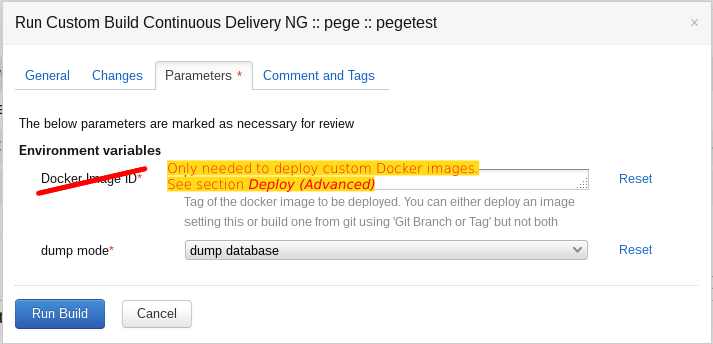
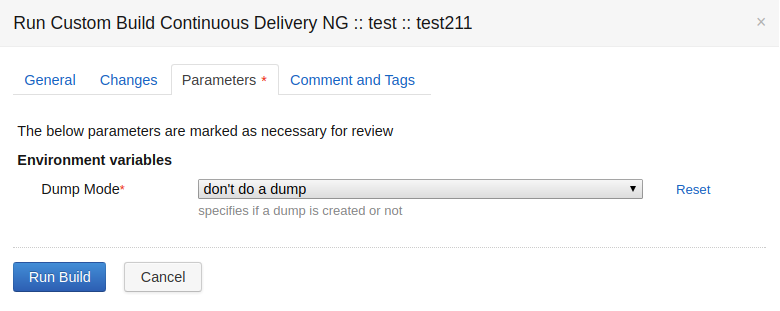
adjust the setion contionous_delivery
add new parameters to the continous delivery configuration

diff --git a/continuous_delivery/deploy_and_basics.rst b/continuous_delivery/deploy_and_basics.rst
@@ -23,17 +23,14 @@ Deliver (Simple)
       #. … a test system with a custom Git branch or tag
       #. … a production system with a Docker image previously installed on the test system
 
-   .. todo:: link "Docker image" to high level overview
-
-.. figure:: deploy_and_basics_static/tc_run_menu.png
+.. figure:: deploy_and_basics_static/tc_run_menu.png		
    :name: run menu
 
    *Run* menu
 
-#. Click on **Run** in the `main page`_
-#. (optional) adjust the `dump mode`_ in the `run menu <#run-menu>`__
+#. Click on **Run** in the `main page`_		
+#. (optional) adjust the `dump mode`_ in the `run menu <#run-menu>`__		
 #. Click **Run Build** in the `run menu <#run-menu>`__
-
 
 Deliver (Advanced)
 ------------------
@@ -50,14 +47,14 @@ Deliver (Advanced)
 #. Click on **Run** in the `main page`_.
 #. (optional) Adjust the `dump mode`_ in the `run menu <#run-menu>`__.
 #. (optional) Select a particular `Git tag or branch <#deploy-a-specific-git-tag>`_ or deploy a particular `Docker image
-   tag <deploy-a-specific-docker-image-tag>`_ [#f1]_.
+   <#deploy-a-specific-docker-image>`_.
 #. Click **Run Build** in the `run menu <#run-menu>`__.
 
-.. todo:: write and link guide for deploying specific Docker images
 
-
-Dump Mode
+Dump Mode 
 ---------
+
+.. note:: dump mode is currently not available 
 
 .. figure:: deploy_and_basics_static/tc_dump_modes_dropdown.png
 
@@ -80,26 +77,30 @@ Deploy a Specific Git Tag
 
 **Build branch** allows you to specify to deploy an arbitrary Git branch or tag.
 
-.. important::
-   #. This should only be used with test systems [#f1]_.
-   #. The value of **Build branch** is ignored if `Docker Image ID <#run-menu-advanced>`__ is set.
+.. note:: There might be a situation where you want to deploy a tag directly on production. 
+          In that case remove the CD parameter "DOCKER_PULL_URL". `Deploy s Specific Docker Image <#deploy-a-specific-docker-image>`_.
 
 
-Deploy a Specific Docker Image Tag
-----------------------------------
+Deploy a Specific Docker Image
+------------------------------
 
-This is only used for production systems, it allows you to deploy a docker image that was once installed on the test
-system. By default the ``test`` tag is deployed which installs the very same image the test system is using. You can
-however also install an older image formerly installed on the test system.
+This is used for production systems, it allows you to deploy a docker image that was once installed on the test
+system. The image is determined by the DOCKER_PULL_URL parameter. It allows you to pick a image from a project an deploy it on your target project.
+For this you can fill the parameter with the following: 
 
-#. Find the tag name for the version you want to have installed. It looks like this ``ecap-2017-05-09T12_54_27``.
-   **ecap** is the customer name.
-#. Enter the tag in the **Docker Image ID** field in the `run menu <#run-menu-advanced>`__.
+**registry.appuio.ch/toco-nice-%env.INSTALLATION%test/%env.DOCKER_IMAGE%.**
 
-.. todo:: describe where the tag names can be found
+After the evaluation of the CD parameters it will appear as an URL like this: 
+         
+``registry.appuio.ch/tocco-nice-tocco/nice:latest`` [#f1]_
 
 
 .. rubric:: Footnotes
 
-.. [#f1] In general, test systems are deployed from git and production systems reuse the Docker Images from
-         the test systems.
+.. [#f1] It is also possible to deploy an image from any other system on your target system.
+         E.g. test213 -> test214
+         After that, test214 will have the state of test213 which obvosuly makes no sense at all.
+
+         So be aware of that, and only use it to deploy a test image on a production system.
+
+

diff --git a/continuous_delivery/add_customer_or_installation.rst b/continuous_delivery/add_customer_or_installation.rst
@@ -42,27 +42,16 @@ Create a new Installation
 4. Fill in parameters as shown above
 5. Fill in these additional template parameters:
 
-   ============================  ======================================================================================
+   ============================  ============================================================================================
    CUSTOMER                      Customer name (e.g. agogis or smc but never :strike:`agogistest` or :strike:`smctest`)
-   DOCKER_IMAGE_PULL_TAG [#f1]_  ``test`` for **production** systems and empty for test systems
-   DOCKER_IMAGE_PUSH_TAG         ``test`` for test systems and ``production`` for production systems
+   DOCKER_PULL_URL               Only needed for production systems. Leave it empty for test system, so a new image is built.
    DUMP_MODE                     ``dump`` for production systems and ``no_dump`` for test systems
-   GIT_TREEISH [#f1]_            Git branch for test systems (e.g. ``releases/2.13``) and empty for production
+   GIT_TREEISH                   Git branch for test systems (e.g. ``releases/2.13``) and empty for production
    INSTALLATION                  Installation name (e.g. smc or smctest)
-   ============================  ======================================================================================
+   ============================  ============================================================================================
 
    It shouldn't be necessary to touch any of the other parameters.
 
 .. important::
 
     The installation needs also to be :doc:`created in OpenShift <../openshift/create_nice_installation>`.
-
-.. rubric:: Footnotes
-
-.. [#f1] Only one of DOCKER_IMAGE_PULL_TAG and GIT_TREEISH can be used at the same time.
-
-         Generally:
-
-         * GIT_TREEISH is used for test systems, it instructs :term:`CD` to build a new Docker image from source.
-         * DOCKER_IMAGE_PULL_TAG is used for production systems and it is set to ``test`` which instruct CD to reuse
-           the Docker image currently in use by the test system.
